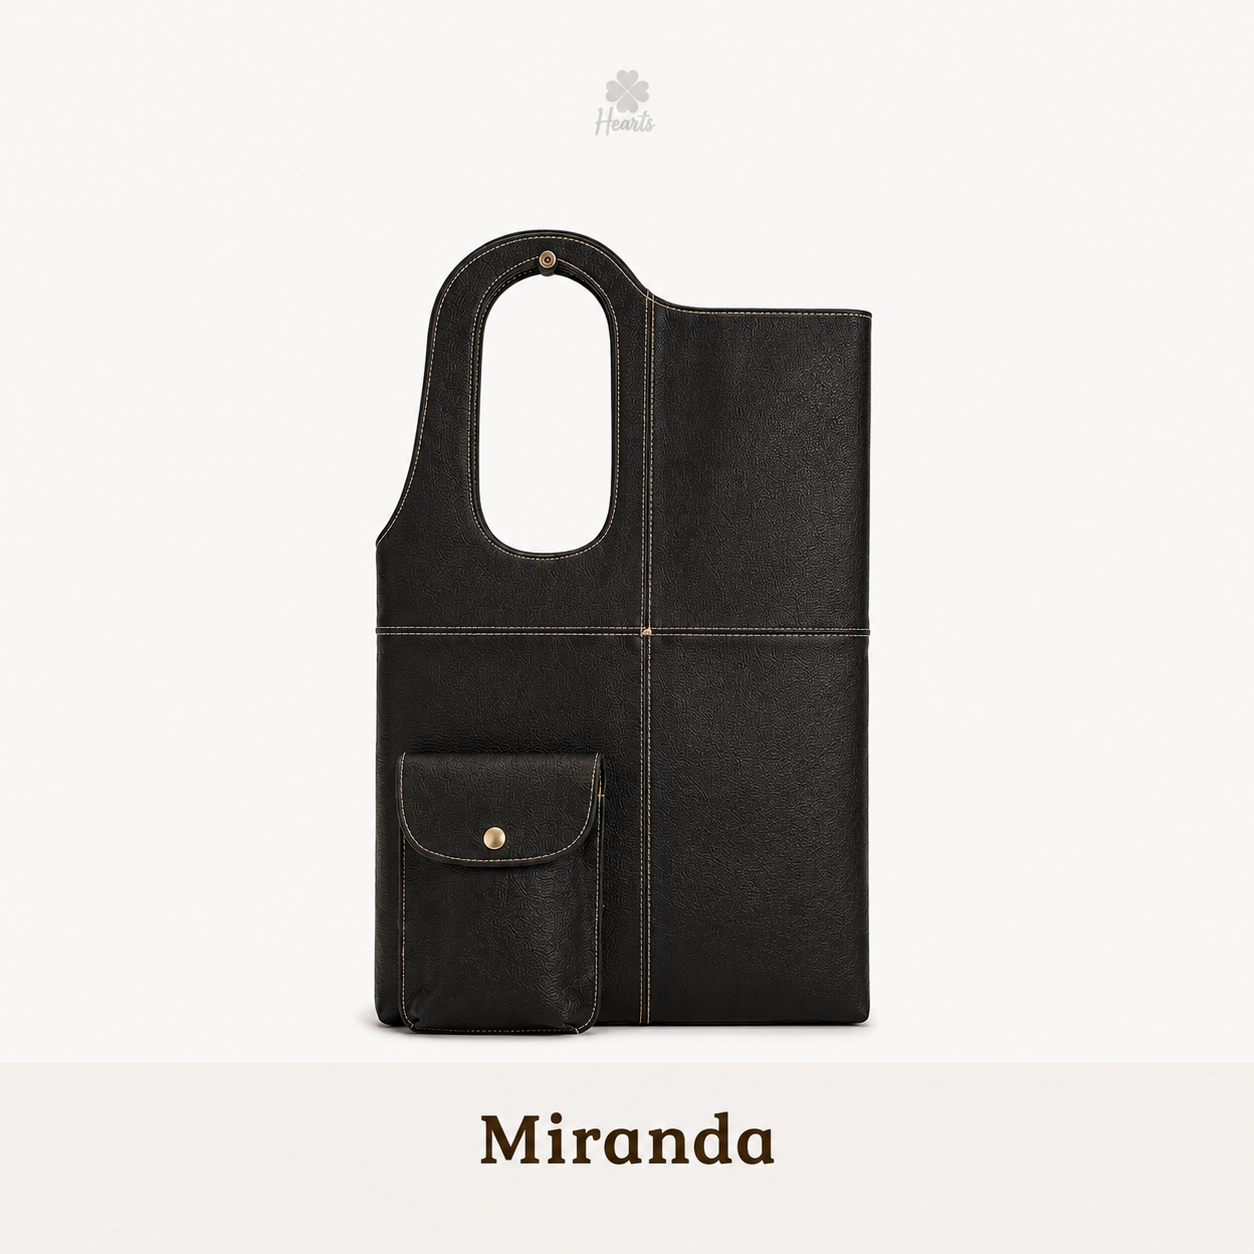
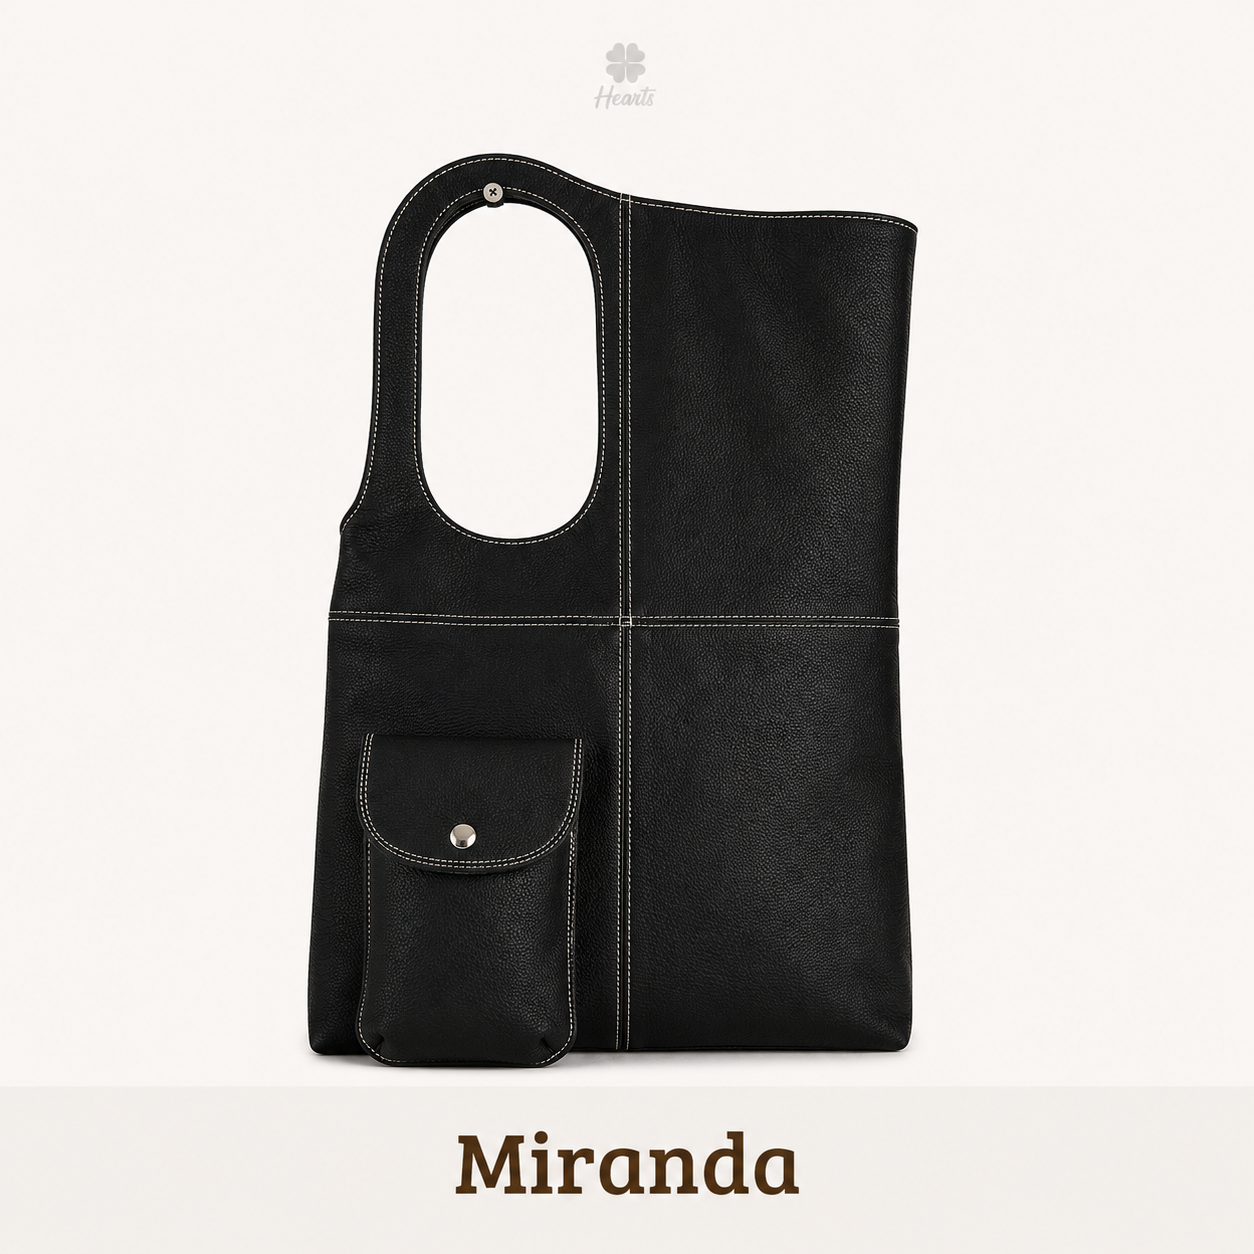
Atualiza Miranda.jpg e corrige modal da Paola para imagem única

Changed region(s): [[0.2177, 0.0311, 0.7464, 0.9641]]

diff --git a/public/index.html b/public/index.html
@@ -1701,7 +1701,7 @@ const CORES_BASE   = ['Preto','Caramelo'];
 const CORES_MAMUTE = ['Preto_mamute','Caramelo_mamute','Rubi_mamute','Whiskey_mamute','Azul_mamute','Cafe_mamute'];
 
 const PRODUTOS_INFO = {
-  Paola:   { preco: 229, imgs: ['produto.jpg'],                 nome: 'Paola',   cores: CORES_PAOLA,  desc: ['Bolsão c/ Abertura p/ o Braço','Super Chique!','Bolso Interno','Fechamento em Ímã','Carregue tudo que precisa!'] },
+  Paola:   { preco: 229, imgs: ['paola01.jpg'],                 nome: 'Paola',   cores: CORES_PAOLA,  desc: ['Bolsão c/ Abertura p/ o Braço','Super Chique!','Bolso Interno','Fechamento em Ímã','Carregue tudo que precisa!'] },
   Carol:   { preco: 289, imgs: ['carol.jpg'],                   nome: 'Carol',   cores: CORES_MAMUTE, desc: ['Duas formas: braço e transversal','Campeã de vendas','Fechamento em Zíper','Bolso Externo','Bolso Interno'] },
   Modelo4: { preco: 199, imgs: ['Celina.jpg'],                  nome: 'Celina',  cores: CORES_MAMUTE, desc: ['Bolsa média com bolso frontal','Fechamento em Zíper','Alça regulável'] },
   Miranda: { preco: 259, imgs: ['Miranda.jpg'],                 nome: 'Miranda', cores: CORES_BASE,   desc: ['Couro Legítimo','Qualidade Hearts'] },
